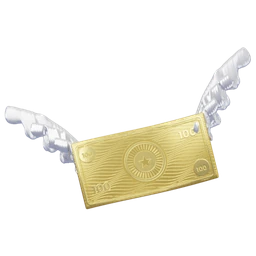
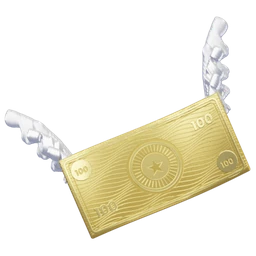
שטר מעופף ממוסגר מחדש: שטר גדול יותר וכנפיים זקופות, כך שהאייקון כמעט ריבועי ונראה גדול בכפתור; גרסת אייקונים 4, מטמון v38

Changed region(s): [[0.0, 0.0625, 1.0, 0.9375]]

diff --git a/public/sw.js b/public/sw.js
@@ -1,4 +1,4 @@
-const CACHE = 'kupa-v37';
+const CACHE = 'kupa-v38';
 // מאז שהאתר עובר דרך Vite build, קובץ ה-JS הראשי יוצא עם hash בשם
 // (למשל assets/index-ABC123.js) שלא ידוע מראש. לכן לא מפרטים כאן כל
 // קובץ src/*.js בנפרד (כמו קודם) - caches.addAll() נכשל כולו אם קובץ
@@ -12,7 +12,7 @@ const FILES = [
   'bars/parent-get.webp', 'bars/parent-owe.webp', 'bars/teen-get.webp', 'bars/teen-owe.webp',
   'bars/child-get.webp', 'bars/child-owe.webp', 'coin.webp',
   // ?v= זהה ל-UI_ICON_VERSION ב-src-react/lib/uiIcons.js
-  ...['fly-money', 'handshake', 'money-bag', 'scroll', 'notebook', 'family'].map((n) => `ui/${n}.webp?v=3`),
+  ...['fly-money', 'handshake', 'money-bag', 'scroll', 'notebook', 'family'].map((n) => `ui/${n}.webp?v=4`),
 ];
 self.addEventListener('install', (e) => {
   // cache: 'reload' - לא לקחת את הקבצים מהמטמון של הדפדפן (GitHub Pages שומר אותם 10 דקות)

diff --git a/src-react/lib/uiIcons.js b/src-react/lib/uiIcons.js
@@ -1,6 +1,6 @@
 // אייקוני הממשק מ-Blender (public/ui/<name>.webp). כל רינדור מחדש: מעלים את UI_ICON_VERSION
 // (וגם את ?v= ב-public/sw.js), כדי שדפדפן עם קובץ ישן במטמון יבקש את החדש.
-export const UI_ICON_VERSION = 3;
+export const UI_ICON_VERSION = 4;
 export const UI_ICON_NAMES = /** @type {const} */ (['fly-money', 'handshake', 'money-bag', 'scroll', 'notebook', 'family']);
 /** @param {string} name */
 export const uiIconUrl = (name) => `ui/${name}.webp?v=${UI_ICON_VERSION}`;

diff --git a/scripts/blender/icons.py b/scripts/blender/icons.py
@@ -383,10 +383,11 @@ def build_fly_money():
         wing = [wing_layer(1.0, tip, 0.0, 5),          # נוצות ראשיות, בגוון תכלת
                 wing_layer(0.7, white, -0.07, 4),       # שכבת כיסוי
                 wing_layer(0.42, white, -0.14, 2, 0.16)]  # כתף
-        g = group(wing, (sx * 1.25, 0.3, 0.35))
-        g.scale = (sx * 0.95, 0.95, 0.95)
+        g = group(wing, (sx * 1.35, 0.3, 0.5))
+        g.scale = (sx * 0.72, 0.72, 0.72)
+        g.rotation_euler = (0, -sx * math.radians(18), 0)  # כנפיים זקופות: האייקון כמעט ריבועי
         parts.append(g)
-    return group(parts, rot=(math.radians(-6), math.radians(-14), math.radians(-4)))
+    return group(parts, rot=(math.radians(-6), math.radians(-24), math.radians(-6)))
 
 
 # ================================================================== שק כסף
